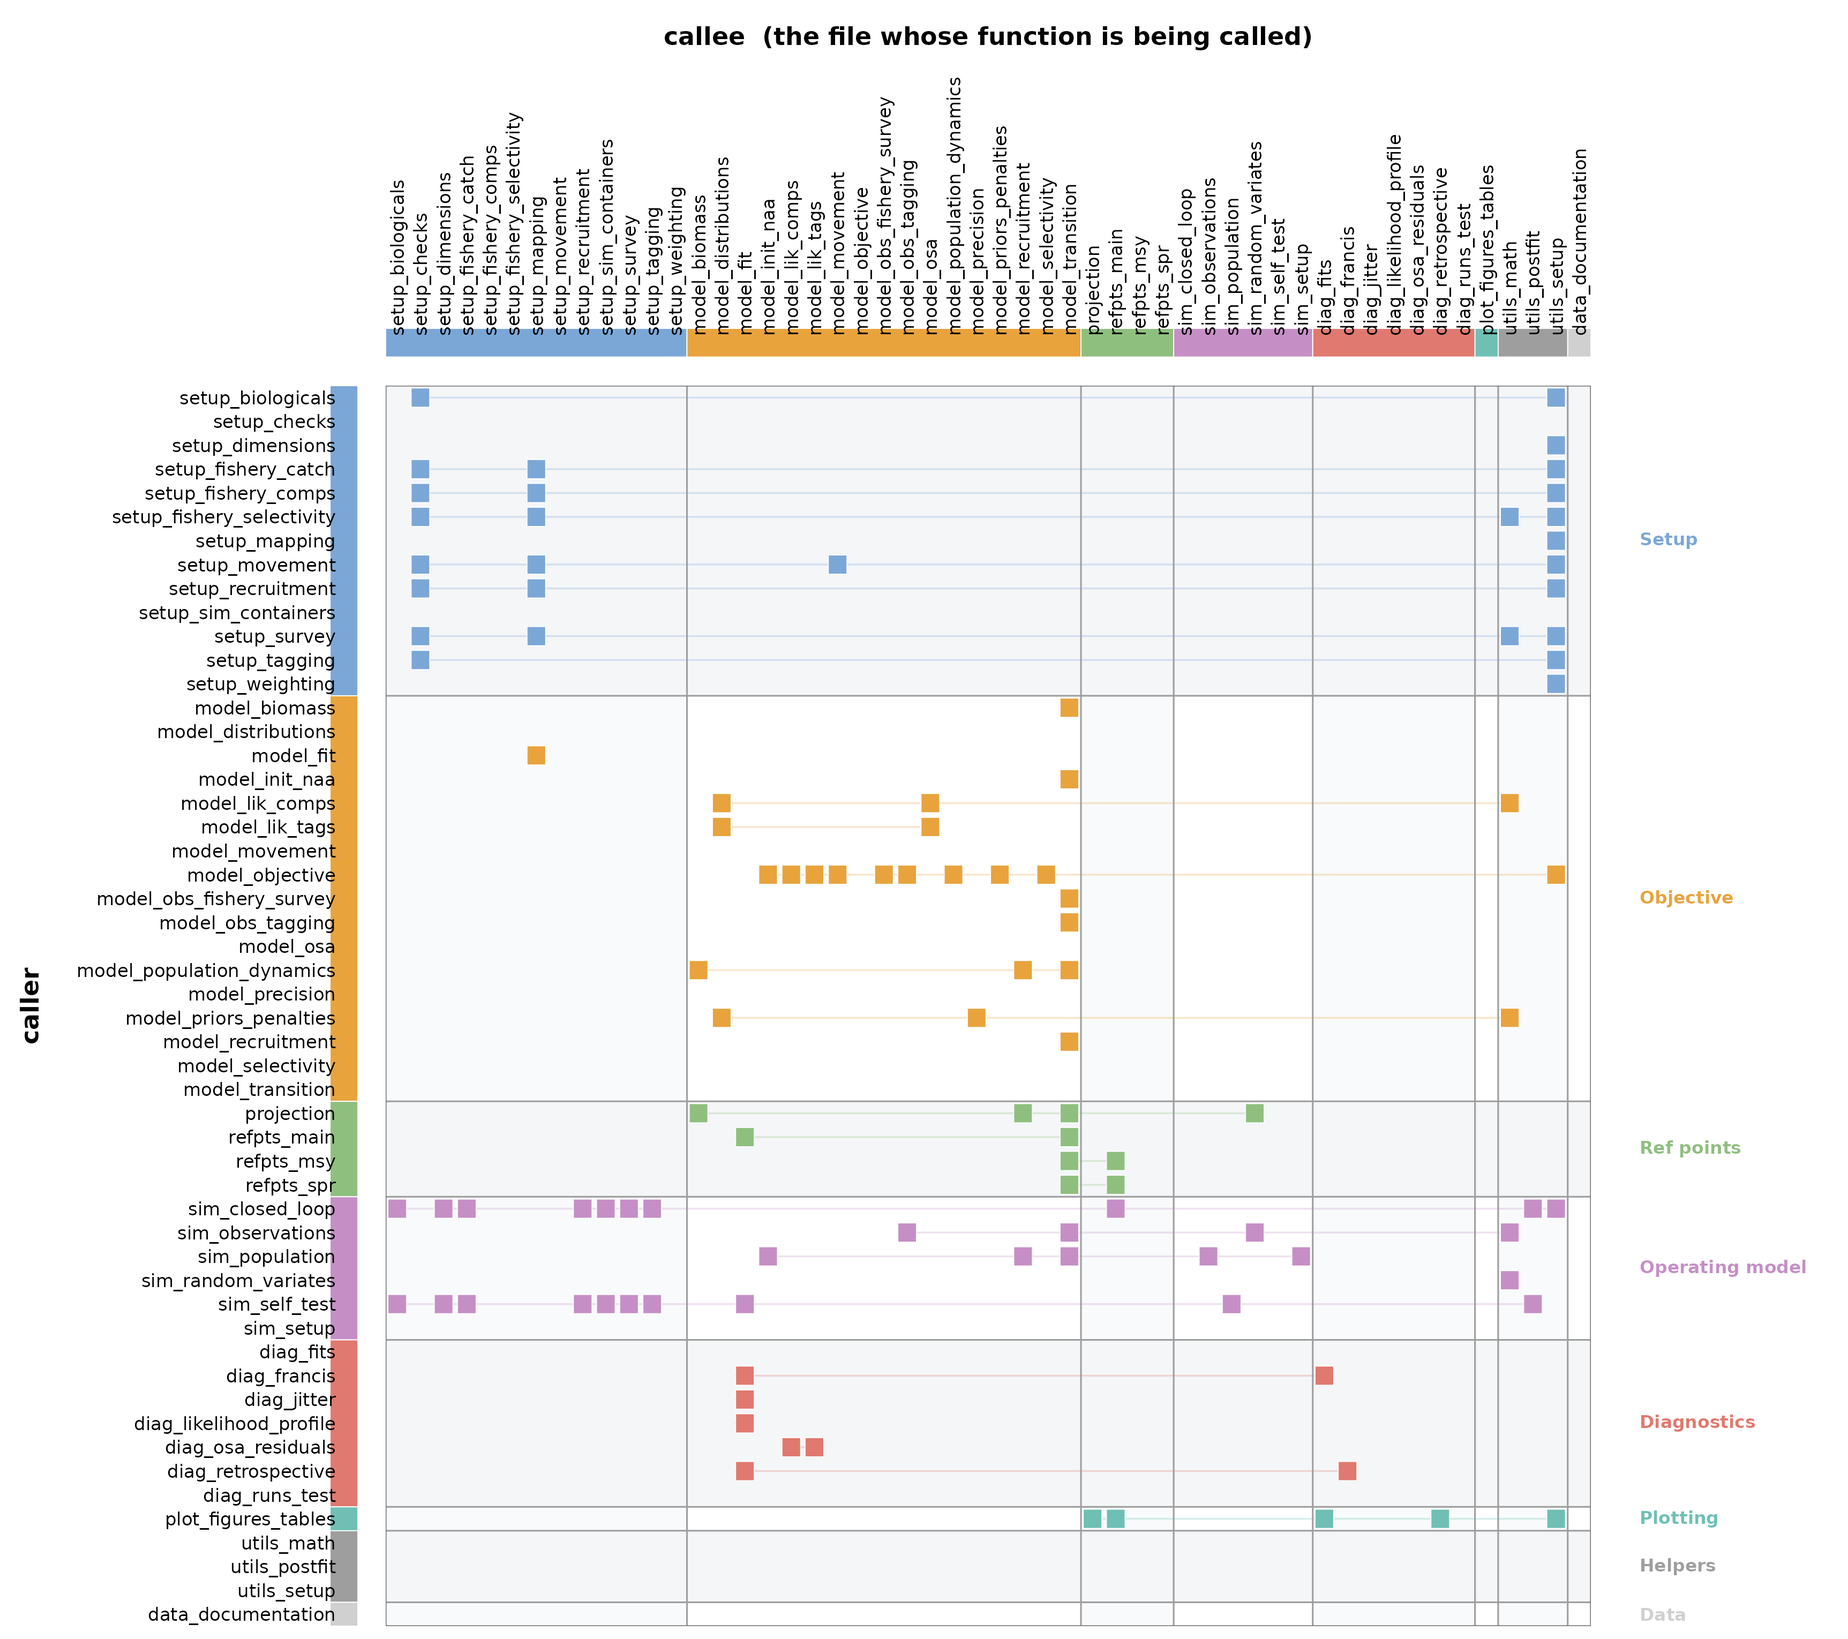
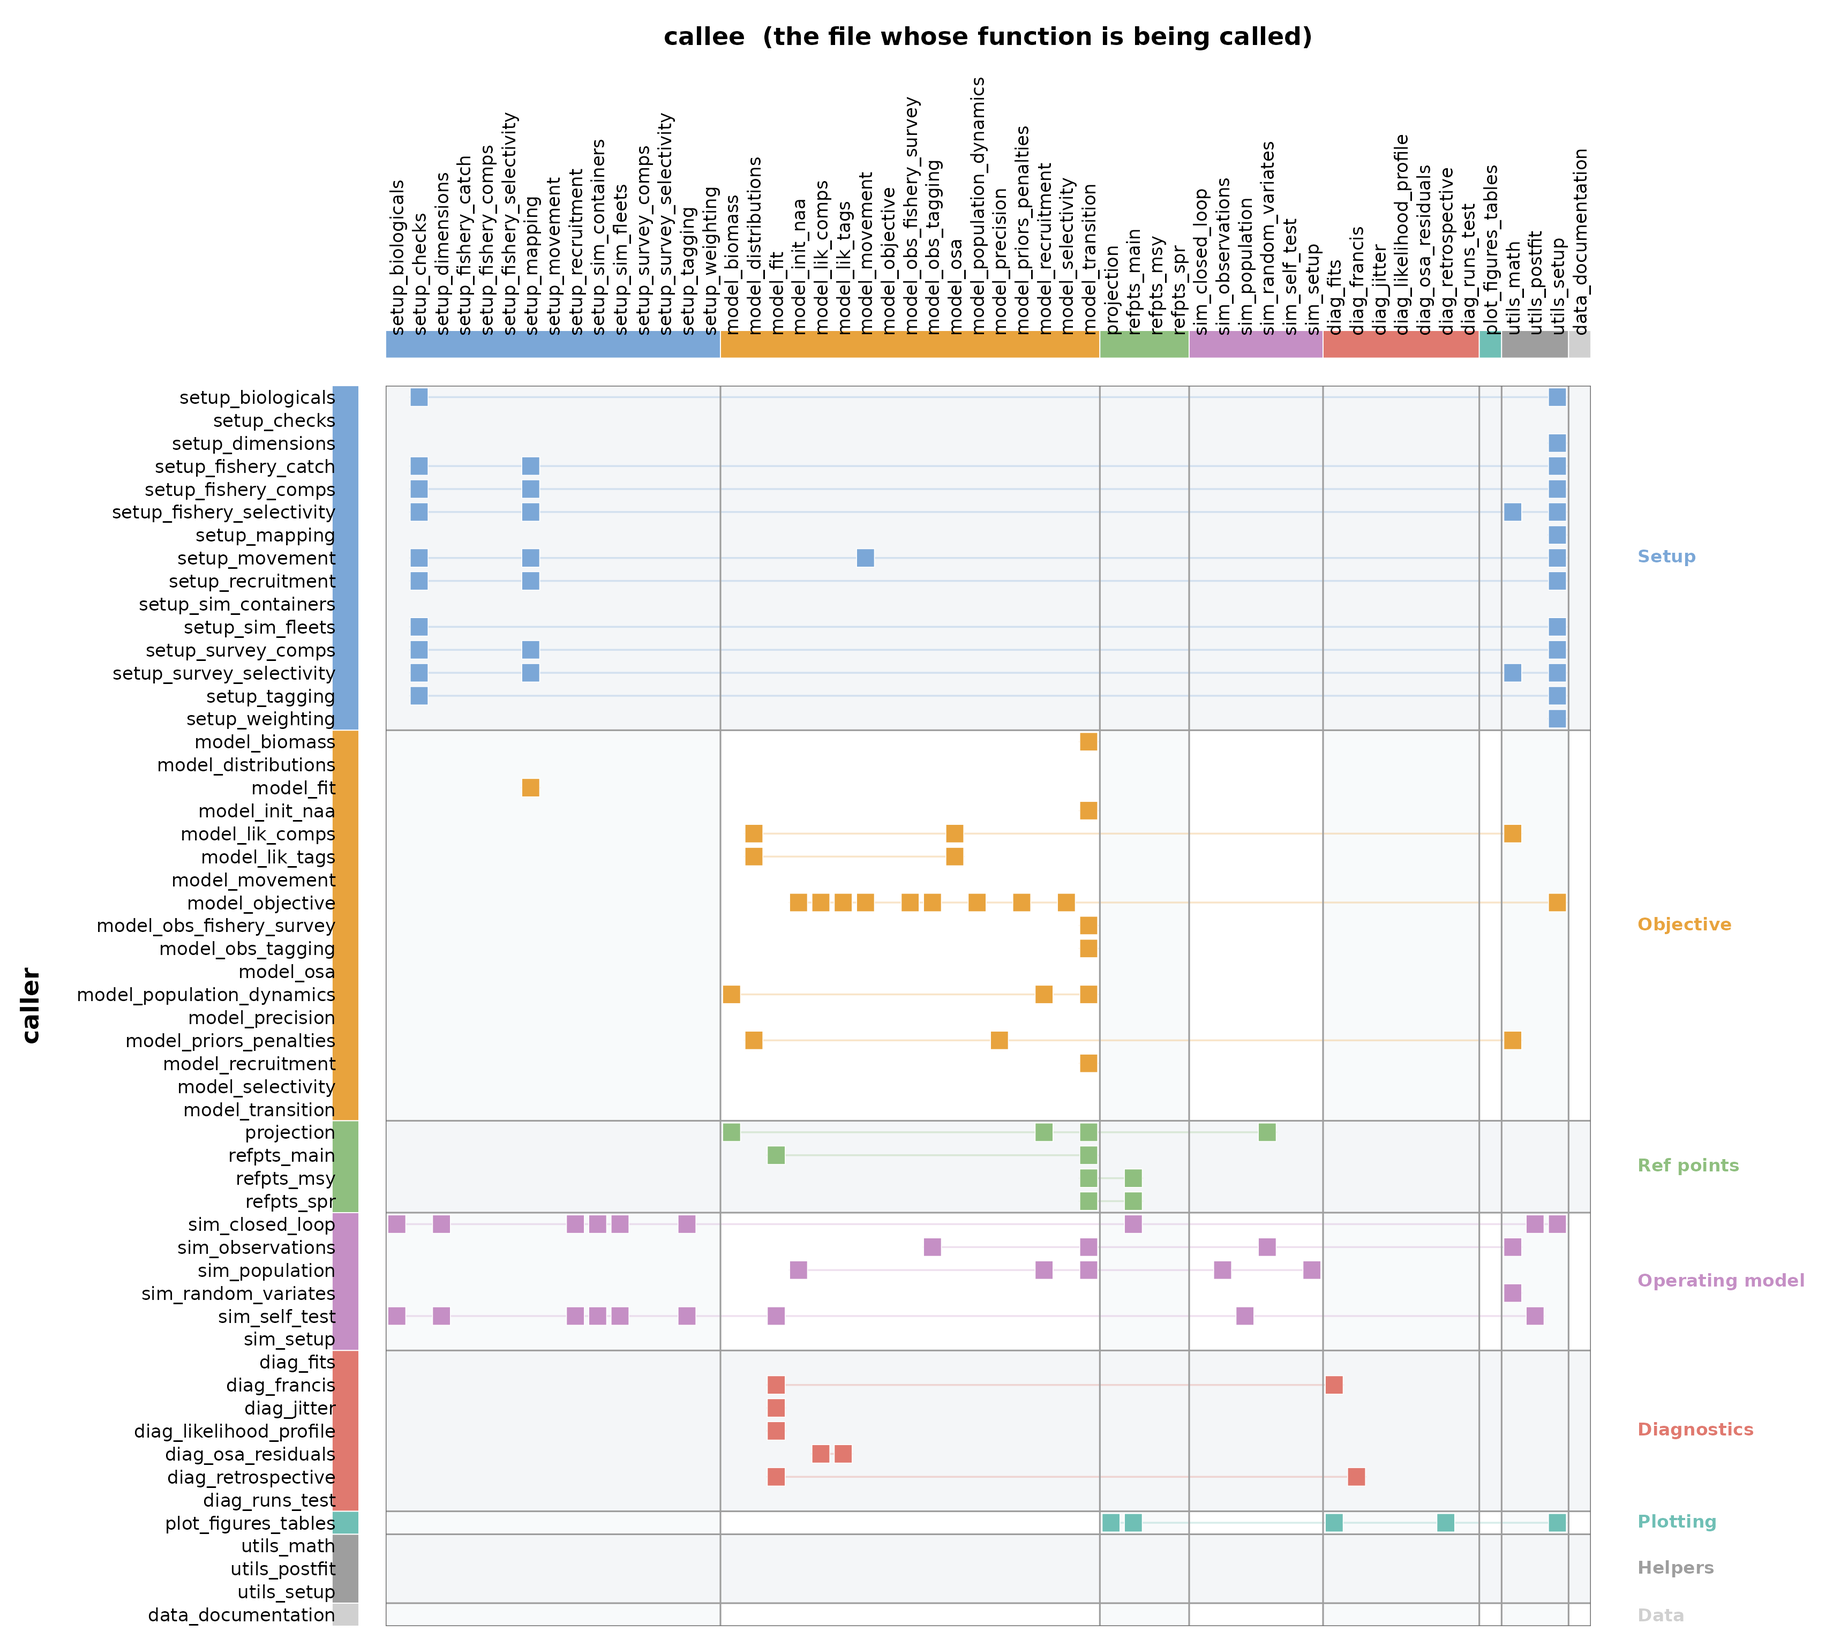
Deploying to gh-pages from @ chengmatt/SPoRC@d5f27b7d42f2f6c0226cac1194bdfd1013bcd432 🚀

diff --git a/dev/articles/architecture.html b/dev/articles/architecture.html
@@ -185,7 +185,10 @@ operating model.</p>
 <tr class="odd">
 <td><code>setup_</code></td>
 <td>Builds <code>data</code>, <code>parameters</code> and
-<code>mapping</code>, one process or data source per file</td>
+<code>mapping</code>, one process or data source per file. A source
+large enough to warrant it is split by topic, as
+<code>setup_fishery_*.R</code> and <code>setup_survey_*.R</code>
+are</td>
 </tr>
 <tr class="even">
 <td><code>model_</code></td>
@@ -240,7 +243,10 @@ operating model.</p>
 <tr class="even">
 <td><code>Setup_Sim_*</code></td>
 <td>Same, for the operating model. Lives beside its
-<code>Setup_Mod_*</code> counterpart</td>
+<code>Setup_Mod_*</code> counterpart, except for the fishery and survey,
+whose operating model inputs span several topic files and so share
+<code>setup_sim_fleets.R</code>
+</td>
 </tr>
 <tr class="odd">
 <td><code>do_*_mapping</code></td>
@@ -336,7 +342,9 @@ through a season goes through that one file.</p>
 <code>setup_biologicals.R</code>,
 <code>setup_fishery_catch.R</code>, <code>setup_fishery_comps.R</code>,
 <code>setup_fishery_selectivity.R</code>, <code>setup_movement.R</code>,
-<code>setup_recruitment.R</code>, <code>setup_survey.R</code>,
+<code>setup_recruitment.R</code>, <code>setup_sim_fleets.R</code>,
+<code>setup_survey_comps.R</code>,
+<code>setup_survey_selectivity.R</code>,
 <code>setup_tagging.R</code>
 </td>
 </tr>
@@ -358,15 +366,13 @@ through a season goes through that one file.</p>
 <code>do_sigma_dmr_mapping</code>, <code>do_sigmaC_mapping</code>,
 <code>do_sigmaC_pop_mapping</code>, <code>do_sigmaD_mapping</code>,
 <code>do_sigmaD_pop_mapping</code>, <code>do_sigmaF_mapping</code>,
-<code>Setup_Mod_Catch_and_F</code>, <code>Setup_Sim_Fishing</code>
+<code>Setup_Mod_Catch_and_F</code>
 </td>
 <td>
 <code>setup_checks.R</code>, <code>setup_mapping.R</code>,
 <code>utils_setup.R</code>
 </td>
-<td>
-<code>sim_closed_loop.R</code>, <code>sim_self_test.R</code>
-</td>
+<td></td>
 </tr>
 <tr class="odd">
 <td><code>setup_fishery_comps.R</code></td>
@@ -407,7 +413,8 @@ through a season goes through that one file.</p>
 <code>model_fit.R</code>, <code>setup_fishery_catch.R</code>,
 <code>setup_fishery_comps.R</code>,
 <code>setup_fishery_selectivity.R</code>, <code>setup_movement.R</code>,
-<code>setup_recruitment.R</code>, <code>setup_survey.R</code>
+<code>setup_recruitment.R</code>, <code>setup_survey_comps.R</code>,
+<code>setup_survey_selectivity.R</code>
 </td>
 </tr>
 <tr class="even">
@@ -449,18 +456,34 @@ through a season goes through that one file.</p>
 </td>
 </tr>
 <tr class="odd">
-<td><code>setup_survey.R</code></td>
+<td><code>setup_sim_fleets.R</code></td>
 <td>
-<code>Setup_Mod_SrvIdx_and_Comps</code>,
-<code>Setup_Mod_Srvsel_and_Q</code>, <code>Setup_Sim_Survey</code>
+<code>Setup_Sim_Fishing</code>, <code>Setup_Sim_Survey</code>
 </td>
 <td>
-<code>setup_checks.R</code>, <code>setup_mapping.R</code>,
-<code>utils_math.R</code>, <code>utils_setup.R</code>
+<code>setup_checks.R</code>, <code>utils_setup.R</code>
 </td>
 <td>
 <code>sim_closed_loop.R</code>, <code>sim_self_test.R</code>
 </td>
+</tr>
+<tr class="even">
+<td><code>setup_survey_comps.R</code></td>
+<td><code>Setup_Mod_SrvIdx_and_Comps</code></td>
+<td>
+<code>setup_checks.R</code>, <code>setup_mapping.R</code>,
+<code>utils_setup.R</code>
+</td>
+<td></td>
+</tr>
+<tr class="odd">
+<td><code>setup_survey_selectivity.R</code></td>
+<td><code>Setup_Mod_Srvsel_and_Q</code></td>
+<td>
+<code>setup_checks.R</code>, <code>setup_mapping.R</code>,
+<code>utils_math.R</code>, <code>utils_setup.R</code>
+</td>
+<td></td>
 </tr>
 <tr class="even">
 <td><code>setup_tagging.R</code></td>
@@ -815,10 +838,10 @@ through a season goes through that one file.</p>
 </td>
 <td>
 <code>refpts_main.R</code>, <code>setup_biologicals.R</code>,
-<code>setup_dimensions.R</code>, <code>setup_fishery_catch.R</code>,
-<code>setup_recruitment.R</code>, <code>setup_sim_containers.R</code>,
-<code>setup_survey.R</code>, <code>setup_tagging.R</code>,
-<code>utils_postfit.R</code>, <code>utils_setup.R</code>
+<code>setup_dimensions.R</code>, <code>setup_recruitment.R</code>,
+<code>setup_sim_containers.R</code>, <code>setup_sim_fleets.R</code>,
+<code>setup_tagging.R</code>, <code>utils_postfit.R</code>,
+<code>utils_setup.R</code>
 </td>
 <td></td>
 </tr>
@@ -873,10 +896,10 @@ through a season goes through that one file.</p>
 </td>
 <td>
 <code>model_fit.R</code>, <code>setup_biologicals.R</code>,
-<code>setup_dimensions.R</code>, <code>setup_fishery_catch.R</code>,
-<code>setup_recruitment.R</code>, <code>setup_sim_containers.R</code>,
-<code>setup_survey.R</code>, <code>setup_tagging.R</code>,
-<code>sim_population.R</code>, <code>utils_postfit.R</code>
+<code>setup_dimensions.R</code>, <code>setup_recruitment.R</code>,
+<code>setup_sim_containers.R</code>, <code>setup_sim_fleets.R</code>,
+<code>setup_tagging.R</code>, <code>sim_population.R</code>,
+<code>utils_postfit.R</code>
 </td>
 <td></td>
 </tr>
@@ -1041,7 +1064,8 @@ through a season goes through that one file.</p>
 <td>
 <code>model_lik_comps.R</code>,
 <code>model_priors_penalties.R</code>,
-<code>setup_fishery_selectivity.R</code>, <code>setup_survey.R</code>,
+<code>setup_fishery_selectivity.R</code>,
+<code>setup_survey_selectivity.R</code>,
 <code>sim_observations.R</code>, <code>sim_random_variates.R</code>
 </td>
 </tr>
@@ -1071,7 +1095,8 @@ through a season goes through that one file.</p>
 <code>setup_fishery_catch.R</code>, <code>setup_fishery_comps.R</code>,
 <code>setup_fishery_selectivity.R</code>, <code>setup_mapping.R</code>,
 <code>setup_movement.R</code>, <code>setup_recruitment.R</code>,
-<code>setup_survey.R</code>, <code>setup_tagging.R</code>,
+<code>setup_sim_fleets.R</code>, <code>setup_survey_comps.R</code>,
+<code>setup_survey_selectivity.R</code>, <code>setup_tagging.R</code>,
 <code>setup_weighting.R</code>, <code>sim_closed_loop.R</code>
 </td>
 </tr>

diff --git a/dev/articles/architecture.md b/dev/articles/architecture.md
@@ -110,7 +110,7 @@ The prefix on a file name says which phase it belongs to.
 
 | Prefix | Phase |
 |----|----|
-| `setup_` | Builds `data`, `parameters` and `mapping`, one process or data source per file |
+| `setup_` | Builds `data`, `parameters` and `mapping`, one process or data source per file. A source large enough to warrant it is split by topic, as `setup_fishery_*.R` and `setup_survey_*.R` are |
 | `model_` | The objective function and the modules it delegates to |
 | `refpts_`, `projection` | Reference points and forward projection off a fitted model |
 | `sim_` | The operating model: self testing and closed loop simulation |
@@ -124,7 +124,7 @@ The prefix on a file name says which phase it belongs to.
 | Prefix | Role |
 |----|----|
 | `Setup_Mod_*` | Builds inputs for a fitted object |
-| `Setup_Sim_*` | Same, for the operating model. Lives beside its `Setup_Mod_*` counterpart |
+| `Setup_Sim_*` | Same, for the operating model. Lives beside its `Setup_Mod_*` counterpart, except for the fishery and survey, whose operating model inputs span several topic files and so share `setup_sim_fleets.R` |
 | `do_*_mapping` | Internal helper that builds the RTMB `map` for one parameter block. This is how parameters get fixed, shared across blocks, or turned into random effect deviations |
 | `Get_*` | Pulls a derived quantity out of set up data, parameters or a fitted object |
 | `do_*` (top level) | A post fit procedure that refits or perturbs a fitted model |
@@ -170,16 +170,18 @@ through that one file.
 | Script | Defines | Calls into | Called from |
 |----|----|----|----|
 | `setup_biologicals.R` | `do_natmort_mapping`, `Setup_Mod_Biologicals`, `Setup_Sim_Biologicals` | `setup_checks.R`, `utils_setup.R` | `sim_closed_loop.R`, `sim_self_test.R` |
-| `setup_checks.R` | `check_data_dimensions`, `check_sim_dimensions` | nothing | `setup_biologicals.R`, `setup_fishery_catch.R`, `setup_fishery_comps.R`, `setup_fishery_selectivity.R`, `setup_movement.R`, `setup_recruitment.R`, `setup_survey.R`, `setup_tagging.R` |
+| `setup_checks.R` | `check_data_dimensions`, `check_sim_dimensions` | nothing | `setup_biologicals.R`, `setup_fishery_catch.R`, `setup_fishery_comps.R`, `setup_fishery_selectivity.R`, `setup_movement.R`, `setup_recruitment.R`, `setup_sim_fleets.R`, `setup_survey_comps.R`, `setup_survey_selectivity.R`, `setup_tagging.R` |
 | `setup_dimensions.R` | `Setup_Mod_Dim`, `Setup_Sim_Dim` | `utils_setup.R` | `sim_closed_loop.R`, `sim_self_test.R` |
-| `setup_fishery_catch.R` | `do_dmr_dev_mapping`, `do_dmr_mean_mapping`, `do_Fdev_rho_mapping`, `do_Fmort_mapping`, `do_sigma_dmr_mapping`, `do_sigmaC_mapping`, `do_sigmaC_pop_mapping`, `do_sigmaD_mapping`, `do_sigmaD_pop_mapping`, `do_sigmaF_mapping`, `Setup_Mod_Catch_and_F`, `Setup_Sim_Fishing` | `setup_checks.R`, `setup_mapping.R`, `utils_setup.R` | `sim_closed_loop.R`, `sim_self_test.R` |
+| `setup_fishery_catch.R` | `do_dmr_dev_mapping`, `do_dmr_mean_mapping`, `do_Fdev_rho_mapping`, `do_Fmort_mapping`, `do_sigma_dmr_mapping`, `do_sigmaC_mapping`, `do_sigmaC_pop_mapping`, `do_sigmaD_mapping`, `do_sigmaD_pop_mapping`, `do_sigmaF_mapping`, `Setup_Mod_Catch_and_F` | `setup_checks.R`, `setup_mapping.R`, `utils_setup.R` |  |
 | `setup_fishery_comps.R` | `Setup_Mod_Discard_Comps`, `Setup_Mod_FishIdx_and_Comps` | `setup_checks.R`, `setup_mapping.R`, `utils_setup.R` |  |
 | `setup_fishery_selectivity.R` | `Setup_Mod_Fishsel_and_Q`, `Setup_Mod_Retsel` | `setup_checks.R`, `setup_mapping.R`, `utils_math.R`, `utils_setup.R` |  |
-| `setup_mapping.R` | `build_pe_map`, `build_shared_spec_map`, `do_comp_corr_pars_mapping`, `do_comp_theta_mapping`, `do_fixed_sel_pars_mapping`, `do_q_mapping`, `do_sel_devs_mapping`, `do_sel_pe_pars_mapping`, `sync_dev_map_data` | `utils_setup.R` | `model_fit.R`, `setup_fishery_catch.R`, `setup_fishery_comps.R`, `setup_fishery_selectivity.R`, `setup_movement.R`, `setup_recruitment.R`, `setup_survey.R` |
+| `setup_mapping.R` | `build_pe_map`, `build_shared_spec_map`, `do_comp_corr_pars_mapping`, `do_comp_theta_mapping`, `do_fixed_sel_pars_mapping`, `do_q_mapping`, `do_sel_devs_mapping`, `do_sel_pe_pars_mapping`, `sync_dev_map_data` | `utils_setup.R` | `model_fit.R`, `setup_fishery_catch.R`, `setup_fishery_comps.R`, `setup_fishery_selectivity.R`, `setup_movement.R`, `setup_recruitment.R`, `setup_survey_comps.R`, `setup_survey_selectivity.R` |
 | `setup_movement.R` | `do_cont_vary_move_mapping`, `do_move_pars_mapping`, `Setup_Mod_Movement` | `model_movement.R`, `setup_checks.R`, `setup_mapping.R`, `utils_setup.R` |  |
 | `setup_recruitment.R` | `do_h_mapping`, `do_InitDevs_mapping`, `do_rec_region_prop_mapping`, `do_rec_seas_prop_mapping`, `do_RecDevs_mapping`, `do_sexratio_pars_mapping`, `do_sigmaR_mapping`, `do_stray_rate_mapping`, `Setup_Mod_Rec`, `Setup_Sim_Rec` | `setup_checks.R`, `setup_mapping.R`, `utils_setup.R` | `sim_closed_loop.R`, `sim_self_test.R` |
 | `setup_sim_containers.R` | `Setup_Sim_Containers` | nothing | `sim_closed_loop.R`, `sim_self_test.R` |
-| `setup_survey.R` | `Setup_Mod_SrvIdx_and_Comps`, `Setup_Mod_Srvsel_and_Q`, `Setup_Sim_Survey` | `setup_checks.R`, `setup_mapping.R`, `utils_math.R`, `utils_setup.R` | `sim_closed_loop.R`, `sim_self_test.R` |
+| `setup_sim_fleets.R` | `Setup_Sim_Fishing`, `Setup_Sim_Survey` | `setup_checks.R`, `utils_setup.R` | `sim_closed_loop.R`, `sim_self_test.R` |
+| `setup_survey_comps.R` | `Setup_Mod_SrvIdx_and_Comps` | `setup_checks.R`, `setup_mapping.R`, `utils_setup.R` |  |
+| `setup_survey_selectivity.R` | `Setup_Mod_Srvsel_and_Q` | `setup_checks.R`, `setup_mapping.R`, `utils_math.R`, `utils_setup.R` |  |
 | `setup_tagging.R` | `do_conv_init_tag_mort_mapping`, `do_conv_tag_fish_reporting_pars_mapping`, `do_conv_tag_shed_mapping`, `do_conv_tag_theta_mapping`, `recycle_tag_event_par`, `Setup_Mod_Tagging`, `Setup_Sim_Tagging` | `setup_checks.R`, `utils_setup.R` | `sim_closed_loop.R`, `sim_self_test.R` |
 | `setup_weighting.R` | `Setup_Mod_Weighting` | `utils_setup.R` |  |
 
@@ -218,11 +220,11 @@ through that one file.
 
 | Script | Defines | Calls into | Called from |
 |----|----|----|----|
-| `sim_closed_loop.R` | `catch_to_F_multifleet`, `catch_to_F_singlefleet`, `condition_closed_loop_simulations`, `get_closed_loop_reference_points` | `refpts_main.R`, `setup_biologicals.R`, `setup_dimensions.R`, `setup_fishery_catch.R`, `setup_recruitment.R`, `setup_sim_containers.R`, `setup_survey.R`, `setup_tagging.R`, `utils_postfit.R`, `utils_setup.R` |  |
+| `sim_closed_loop.R` | `catch_to_F_multifleet`, `catch_to_F_singlefleet`, `condition_closed_loop_simulations`, `get_closed_loop_reference_points` | `refpts_main.R`, `setup_biologicals.R`, `setup_dimensions.R`, `setup_recruitment.R`, `setup_sim_containers.R`, `setup_sim_fleets.R`, `setup_tagging.R`, `utils_postfit.R`, `utils_setup.R` |  |
 | `sim_observations.R` | `generate_fishery_catch_comp_idx`, `generate_fishery_conv_tags_recap`, `generate_survey_comp_idx`, `marginalize_conv_fish_tags`, `predict_sim_fish_iss_fmort`, `release_conv_tags`, `simulate_comps`, `simulate_conv_tag_fish_recaptures` | `model_obs_tagging.R`, `model_transition.R`, `sim_random_variates.R`, `utils_math.R` | `sim_population.R` |
 | `sim_population.R` | `apply_pop_dy`, `compute_biom_y_sim`, `generate_initial_age_structure`, `generate_recruitment`, `run_annual_cycle`, `Simulate_Pop_Static` | `model_init_naa.R`, `model_recruitment.R`, `model_transition.R`, `sim_observations.R`, `sim_setup.R` | `sim_self_test.R` |
 | `sim_random_variates.R` | `rdirM`, `rinvgauss_rec`, `rlogistnormal` | `utils_math.R` | `projection.R`, `sim_observations.R` |
-| `sim_self_test.R` | `simulation_data_to_SPoRC`, `simulation_self_test` | `model_fit.R`, `setup_biologicals.R`, `setup_dimensions.R`, `setup_fishery_catch.R`, `setup_recruitment.R`, `setup_sim_containers.R`, `setup_survey.R`, `setup_tagging.R`, `sim_population.R`, `utils_postfit.R` |  |
+| `sim_self_test.R` | `simulation_data_to_SPoRC`, `simulation_self_test` | `model_fit.R`, `setup_biologicals.R`, `setup_dimensions.R`, `setup_recruitment.R`, `setup_sim_containers.R`, `setup_sim_fleets.R`, `setup_tagging.R`, `sim_population.R`, `utils_postfit.R` |  |
 | `sim_setup.R` | `Setup_sim_env` | nothing | `sim_population.R` |
 
 #### Diagnostics
@@ -247,9 +249,9 @@ through that one file.
 
 | Script | Defines | Calls into | Called from |
 |----|----|----|----|
-| `utils_math.R` | `get_AR1_CorrMat`, `get_Constant_CorrMat`, `get_logistN_Sigma`, `Get_Natural_Cubic_Spline_Weights`, `rho_trans` | nothing | `model_lik_comps.R`, `model_priors_penalties.R`, `setup_fishery_selectivity.R`, `setup_survey.R`, `sim_observations.R`, `sim_random_variates.R` |
+| `utils_math.R` | `get_AR1_CorrMat`, `get_Constant_CorrMat`, `get_logistN_Sigma`, `Get_Natural_Cubic_Spline_Weights`, `rho_trans` | nothing | `model_lik_comps.R`, `model_priors_penalties.R`, `setup_fishery_selectivity.R`, `setup_survey_selectivity.R`, `sim_observations.R`, `sim_random_variates.R` |
 | `utils_postfit.R` | `get_model_rep_from_mcmc`, `get_optim_param_list`, `get_par_est_info`, `marg_AIC`, `post_optim_sanity_checks` | nothing | `sim_closed_loop.R`, `sim_self_test.R` |
-| `utils_setup.R` | `collect_message`, `convert_to_numeric`, `extend_years`, `resolve_sel_pen_wts`, `safe_extract`, `set_data_indicator_unused` | nothing | `model_objective.R`, `plot_figures_tables.R`, `setup_biologicals.R`, `setup_dimensions.R`, `setup_fishery_catch.R`, `setup_fishery_comps.R`, `setup_fishery_selectivity.R`, `setup_mapping.R`, `setup_movement.R`, `setup_recruitment.R`, `setup_survey.R`, `setup_tagging.R`, `setup_weighting.R`, `sim_closed_loop.R` |
+| `utils_setup.R` | `collect_message`, `convert_to_numeric`, `extend_years`, `resolve_sel_pen_wts`, `safe_extract`, `set_data_indicator_unused` | nothing | `model_objective.R`, `plot_figures_tables.R`, `setup_biologicals.R`, `setup_dimensions.R`, `setup_fishery_catch.R`, `setup_fishery_comps.R`, `setup_fishery_selectivity.R`, `setup_mapping.R`, `setup_movement.R`, `setup_recruitment.R`, `setup_sim_fleets.R`, `setup_survey_comps.R`, `setup_survey_selectivity.R`, `setup_tagging.R`, `setup_weighting.R`, `sim_closed_loop.R` |
 
 #### Package data
 
